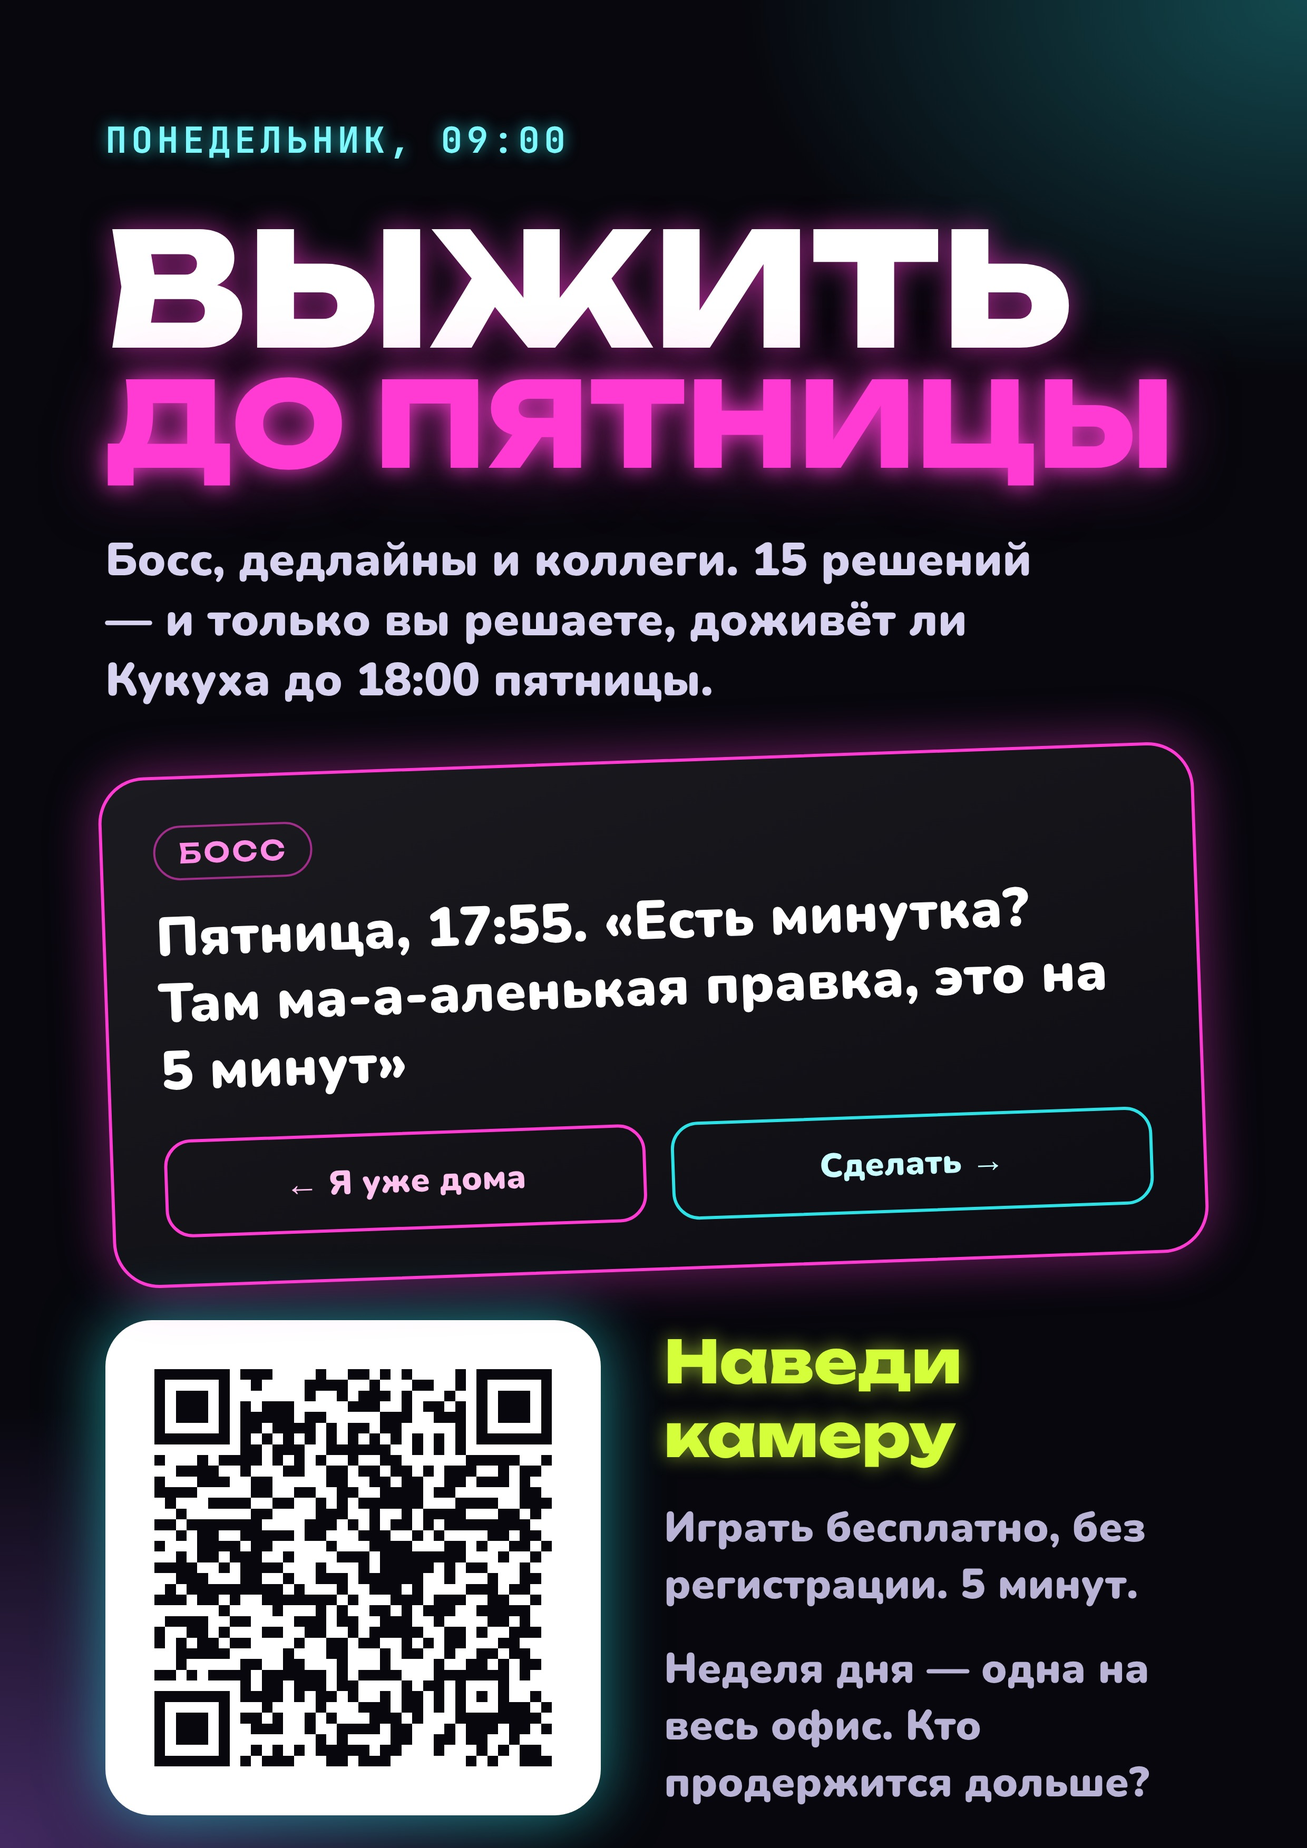
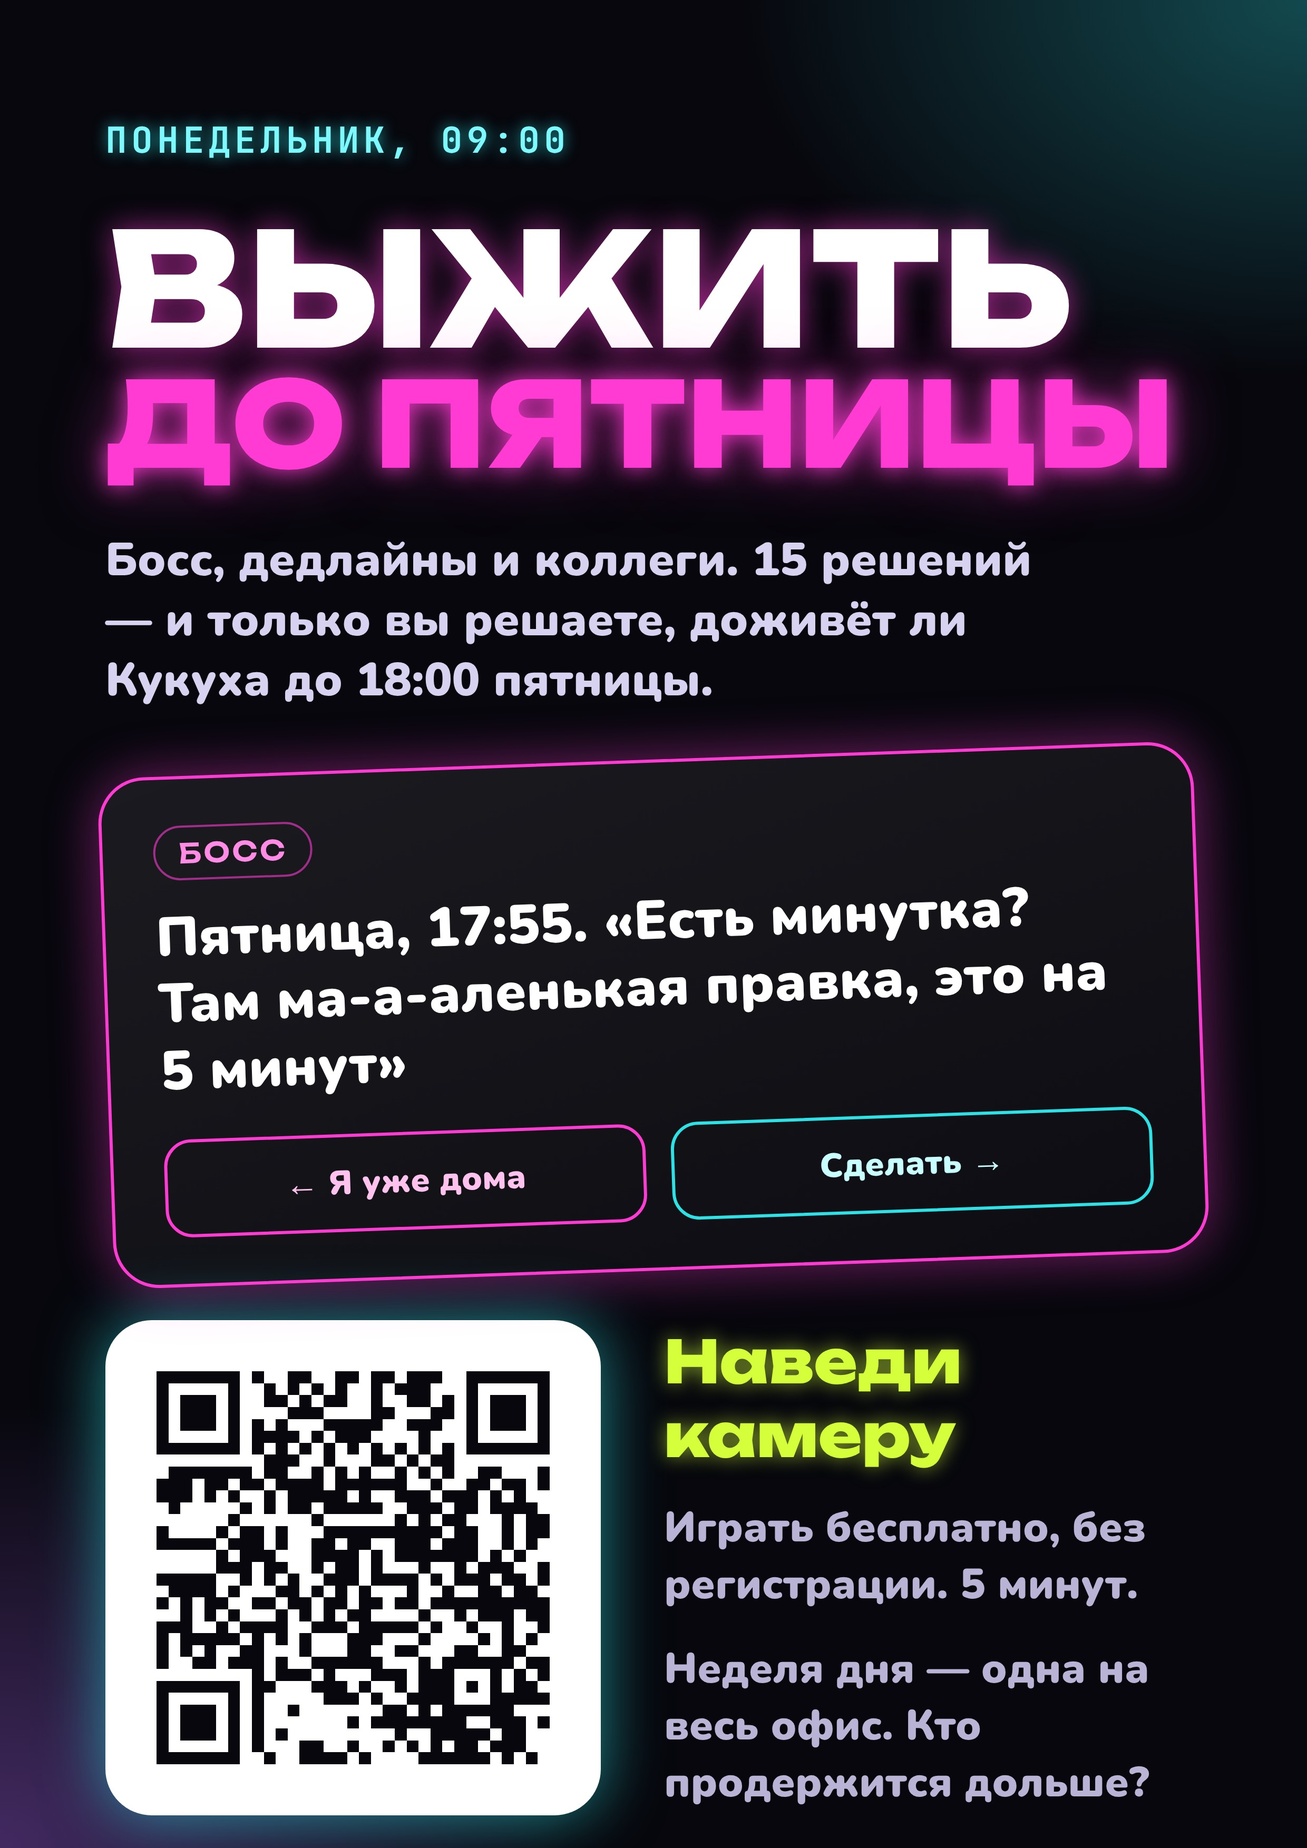
Домен survivefriday.com: CNAME, адреса в мета-тегах, sitemap, QR и постер
Claude-Session: https://claude.ai/code/session_01AAVyg7WURH38vHMPY1fwkq

Changed region(s): [[0.1242, 0.7147, 0.4347, 0.9632]]

diff --git a/index.html b/index.html
@@ -12,13 +12,13 @@
 <link rel="icon" href="icons/icon.svg" type="image/svg+xml">
 <link rel="apple-touch-icon" href="icons/apple-touch-icon.png">
 <meta name="description" content="Офисная игра онлайн без регистрации: свайпайте решения, держите Кукуху, Энергию, Босса и Коллег в балансе и доживите до пятницы, 18:00. Неделя дня, рейтинг отделов, турниры офиса.">
-<link rel="canonical" href="https://minionslaba-ux.github.io/vyzhit-do-pyatnitsy-/">
+<link rel="canonical" href="https://survivefriday.com/">
 <meta property="og:type" content="website">
 <meta property="og:site_name" content="Выжить до пятницы">
 <meta property="og:title" content="Выжить до пятницы — офисная игра на 5 минут">
 <meta property="og:description" content="Босс, дедлайны и коллеги: доживите до пятницы, 18:00. Одна неделя дня на весь офис — сравните, кто продержится дольше.">
-<meta property="og:url" content="https://minionslaba-ux.github.io/vyzhit-do-pyatnitsy-/">
-<meta property="og:image" content="https://minionslaba-ux.github.io/vyzhit-do-pyatnitsy-/icons/og-1200x630.jpg">
+<meta property="og:url" content="https://survivefriday.com/">
+<meta property="og:image" content="https://survivefriday.com/icons/og-1200x630.jpg">
 <meta property="og:image:width" content="1200">
 <meta property="og:image:height" content="630">
 <meta property="og:image:alt" content="Выжить до пятницы: неоновые шкалы Кукуха, Энергия, Босс, Коллеги и карточка от Босса">
@@ -26,8 +26,8 @@
 <meta name="twitter:card" content="summary_large_image">
 <meta name="twitter:title" content="Выжить до пятницы — офисная игра на 5 минут">
 <meta name="twitter:description" content="Доживите до пятницы, 18:00: свайпайте решения и держите четыре шкалы в балансе.">
-<meta name="twitter:image" content="https://minionslaba-ux.github.io/vyzhit-do-pyatnitsy-/icons/og-1200x630.jpg">
-<script type="application/ld+json">{"@context":"https://schema.org","@type":"VideoGame","name":"Выжить до пятницы","url":"https://minionslaba-ux.github.io/vyzhit-do-pyatnitsy-/","image":"https://minionslaba-ux.github.io/vyzhit-do-pyatnitsy-/icons/og-1200x630.jpg","description":"Офисная игра онлайн без регистрации: свайпайте решения, держите Кукуху, Энергию, Босса и Коллег в балансе и доживите до пятницы, 18:00. Неделя дня, рейтинг отделов, турниры офиса.","genre":["Карточная игра","Симулятор"],"gamePlatform":"Web browser","applicationCategory":"Game","operatingSystem":"Any","inLanguage":"ru","isAccessibleForFree":true,"offers":{"@type":"Offer","price":"0","priceCurrency":"RUB"}}</script>
+<meta name="twitter:image" content="https://survivefriday.com/icons/og-1200x630.jpg">
+<script type="application/ld+json">{"@context":"https://schema.org","@type":"VideoGame","name":"Выжить до пятницы","url":"https://survivefriday.com/","image":"https://survivefriday.com/icons/og-1200x630.jpg","description":"Офисная игра онлайн без регистрации: свайпайте решения, держите Кукуху, Энергию, Босса и Коллег в балансе и доживите до пятницы, 18:00. Неделя дня, рейтинг отделов, турниры офиса.","genre":["Карточная игра","Симулятор"],"gamePlatform":"Web browser","applicationCategory":"Game","operatingSystem":"Any","inLanguage":"ru","isAccessibleForFree":true,"offers":{"@type":"Offer","price":"0","priceCurrency":"RUB"}}</script>
 <title>Выжить до пятницы</title>
 <link rel="preconnect" href="https://fonts.googleapis.com">
 <link rel="preconnect" href="https://fonts.gstatic.com" crossorigin>

diff --git a/igra-pro-ofis.html b/igra-pro-ofis.html
@@ -5,12 +5,12 @@
 <meta name="viewport" content="width=device-width, initial-scale=1">
 <title>Игра про офис онлайн без регистрации — «Выжить до пятницы»</title>
 <meta name="description" content="Бесплатная браузерная игра про офисную жизнь: 15 решений с понедельника до пятницы, Босс, дедлайны и коллеги. Играйте без регистрации с телефона или компьютера, соревнуйтесь отделами.">
-<link rel="canonical" href="https://minionslaba-ux.github.io/vyzhit-do-pyatnitsy-/igra-pro-ofis.html">
+<link rel="canonical" href="https://survivefriday.com/igra-pro-ofis.html">
 <meta property="og:type" content="article">
 <meta property="og:title" content="Игра про офис онлайн — «Выжить до пятницы»">
 <meta property="og:description" content="Доживите до пятницы, 18:00: свайпайте решения и держите Кукуху, Энергию, Босса и Коллег в балансе.">
-<meta property="og:url" content="https://minionslaba-ux.github.io/vyzhit-do-pyatnitsy-/igra-pro-ofis.html">
-<meta property="og:image" content="https://minionslaba-ux.github.io/vyzhit-do-pyatnitsy-/icons/og-1200x630.jpg">
+<meta property="og:url" content="https://survivefriday.com/igra-pro-ofis.html">
+<meta property="og:image" content="https://survivefriday.com/icons/og-1200x630.jpg">
 <meta name="twitter:card" content="summary_large_image">
 <link rel="icon" href="icons/icon.svg" type="image/svg+xml">
 <script type="application/ld+json">

diff --git a/js/ui-menu.js b/js/ui-menu.js
@@ -507,7 +507,7 @@ async function showChat(channel) {
 }
 
 // ---------- приглашения в игру: ссылки с ID, плашка, бонус за пришедших ----------
-const gameUrl = () => /^https?:/.test(location.href) ? location.origin + location.pathname : 'https://minionslaba-ux.github.io/vyzhit-do-pyatnitsy-/';
+const gameUrl = () => /^https?:/.test(location.href) ? location.origin + location.pathname : 'https://survivefriday.com/';
 async function referralLink(kind) {
   const ref = shortId(await myTag);
   let team = null;

diff --git a/README.md b/README.md
@@ -46,7 +46,7 @@
 - **Чат**: «Офис» — только для участников вашего офиса, «Все игроки» — общий. Сообщения до 300 символов, обновляются каждые 4 секунды.
 
 Настройка входа по почте в Supabase:
-1. **Authentication → URL Configuration**: в **Site URL** укажите адрес игры (например, `https://minionslaba-ux.github.io/vyzhit-do-pyatnitsy-/`) и добавьте его же в **Redirect URLs**.
+1. **Authentication → URL Configuration**: в **Site URL** укажите адрес игры (например, `https://survivefriday.com/`) и добавьте его же в **Redirect URLs**.
 2. **Authentication → Sign In / Providers → Email** должен быть включён (по умолчанию включён).
 3. Встроенная почта Supabase отправляет лишь несколько писем в час. Для офиса подключите свой SMTP: **Authentication → Emails → SMTP Settings**.
 
@@ -159,11 +159,29 @@ python3 -m http.server 8000
 
 1. В Telegram откройте [@BotFather](https://t.me/BotFather) → `/newbot` → придумайте имя и username бота.
 2. Подключите игру к боту одним из способов:
-   - **Главное мини-приложение** (проще): `/mybots` → бот → **Bot Settings → Configure Mini App → Enable Mini App** → адрес `https://minionslaba-ux.github.io/vyzhit-do-pyatnitsy-/`. Ссылки: `https://t.me/Survivefridaybot?startapp=ref-ID_join-КОД`.
+   - **Главное мини-приложение** (проще): `/mybots` → бот → **Bot Settings → Configure Mini App → Enable Mini App** → адрес `https://survivefriday.com/`. Ссылки: `https://t.me/Survivefridaybot?startapp=ref-ID_join-КОД`.
    - **Отдельное приложение:** `/newapp` → бот → название, описание, картинка 640×360 → тот же адрес → короткое имя, например `play`. Ссылки: `https://t.me/Survivefridaybot/play?startapp=…`.
 3. В `js/config.js` указано `telegram: { bot: 'Survivefridaybot', app: '' }` — ссылки ведут на главное мини-приложение: `https://t.me/Survivefridaybot?startapp=…` (так надёжнее всего открывается сразу игра). Чтобы вести на отдельное приложение, впишите его короткое имя в `app`.
    Кнопку игры в меню чата бота можно добавить там же: **Bot Settings → Menu Button** → тот же адрес.
 4. Вход по почте внутри Telegram открывает письмо в браузере; в самом Telegram удобнее играть гостем.
+
+## Домен survivefriday.com
+
+Игра открывается на https://survivefriday.com. Домен куплен на Namecheap и подключён к GitHub Pages: в корне репозитория лежит файл `CNAME`, в Namecheap → Domain List → Manage → **Advanced DNS** заведены записи:
+
+| Тип | Host | Значение |
+|---|---|---|
+| A | `@` | `185.199.108.153` |
+| A | `@` | `185.199.109.153` |
+| A | `@` | `185.199.110.153` |
+| A | `@` | `185.199.111.153` |
+| AAAA | `@` | `2606:50c0:8000::153` |
+| AAAA | `@` | `2606:50c0:8001::153` |
+| AAAA | `@` | `2606:50c0:8002::153` |
+| AAAA | `@` | `2606:50c0:8003::153` |
+| CNAME | `www` | `minionslaba-ux.github.io.` |
+
+Старый адрес `minionslaba-ux.github.io/vyzhit-do-pyatnitsy-/` GitHub перенаправляет на домен сам. Прогресс в браузере (`localStorage`) привязан к адресу сайта, поэтому после переезда незарегистрированные игроки начинают заново; зарегистрированные входят по почте, их имя, офис и результаты в рейтинге хранятся в Supabase.
 
 ## Структура
 

diff --git a/promo/README.md b/promo/README.md
@@ -1,8 +1,8 @@
 # Продвижение «Выжить до пятницы»
 
-Ссылка на игру: https://minionslaba-ux.github.io/vyzhit-do-pyatnitsy-/
+Ссылка на игру: https://survivefriday.com/
 В Telegram: https://t.me/Survivefridaybot
-Страница для поисковиков: https://minionslaba-ux.github.io/vyzhit-do-pyatnitsy-/igra-pro-ofis.html
+Страница для поисковиков: https://survivefriday.com/igra-pro-ofis.html
 
 ## Что уже есть в игре
 
@@ -34,11 +34,11 @@
 Добавляйте `?utm_source=…` к ссылке, чтобы в `?stats` было видно, какой канал работает:
 
 ```
-https://minionslaba-ux.github.io/vyzhit-do-pyatnitsy-/?utm_source=habr
-https://minionslaba-ux.github.io/vyzhit-do-pyatnitsy-/?utm_source=vc
-https://minionslaba-ux.github.io/vyzhit-do-pyatnitsy-/?utm_source=tiktok
-https://minionslaba-ux.github.io/vyzhit-do-pyatnitsy-/?utm_source=reels
-https://minionslaba-ux.github.io/vyzhit-do-pyatnitsy-/?utm_source=pikabu
+https://survivefriday.com/?utm_source=habr
+https://survivefriday.com/?utm_source=vc
+https://survivefriday.com/?utm_source=tiktok
+https://survivefriday.com/?utm_source=reels
+https://survivefriday.com/?utm_source=pikabu
 ```
 
 ## Что сделать руками
@@ -49,7 +49,7 @@ https://minionslaba-ux.github.io/vyzhit-do-pyatnitsy-/?utm_source=pikabu
 4. **Стикерпак**: в Telegram бот @Stickers → `/newpack` → загрузить PNG из `stickers/` по одному, к каждому — эмодзи → `/publish`, короткое имя, например `vyzhit_do_pyatnitsy`.
 5. **itch.io**: New project → Kind of project: HTML → загрузить `dist/itch.zip` → «This file will be played in the browser», размер окна 420×820, включить «Mobile friendly» и «Fullscreen button».
 6. **Яндекс Игры**: консоль разработчика → новое приложение → загрузить `dist/yandex.zip`. В сборке подключён SDK (`/sdk.js`), вызывается `LoadingAPI.ready()` и `GameplayAPI`, скрыты ссылки на Telegram, WhatsApp и установку. Перед отправкой на модерацию сверьте актуальные требования каталога: правила меняются, а запросы к Supabase и шрифты Google могут потребовать отдельного согласования.
-7. **Короткий адрес**: купить домен, который легко продиктовать (например, `dopyatnicy.ru`), и подключить к GitHub Pages: Settings → Pages → Custom domain. После этого замените адрес в `index.html` (мета-теги), `igra-pro-ofis.html`, `sitemap.xml` и перегенерируйте QR.
+7. **Домен**: игра живёт на https://survivefriday.com (файл `CNAME` в репозитории). Старый адрес на github.io перенаправляет туда сам.
 
 ## Порядок запуска
 

diff --git a/promo/b2b.md b/promo/b2b.md
@@ -15,7 +15,7 @@
 >
 > От вас — 20 минут на созвон и список из 10–15 ситуаций для онбординг-недели. По итогам пришлём отчёт: сколько человек сыграло, сколько недель и какие ситуации вызвали больше всего ошибок.
 >
-> Демо онбординг-недели: https://minionslaba-ux.github.io/vyzhit-do-pyatnitsy-/?pack=onboarding-demo
+> Демо онбординг-недели: https://survivefriday.com/?pack=onboarding-demo
 >
 > [Подпись]
 

diff --git a/promo/posts.md b/promo/posts.md
@@ -1,6 +1,6 @@
 # Тексты для чатов и соцсетей
 
-Ссылка: https://minionslaba-ux.github.io/vyzhit-do-pyatnitsy-/ (добавляйте `?utm_source=…`, см. README).
+Ссылка: https://survivefriday.com/ (добавляйте `?utm_source=…`, см. README).
 
 ## В рабочий чат (первый запуск)
 
